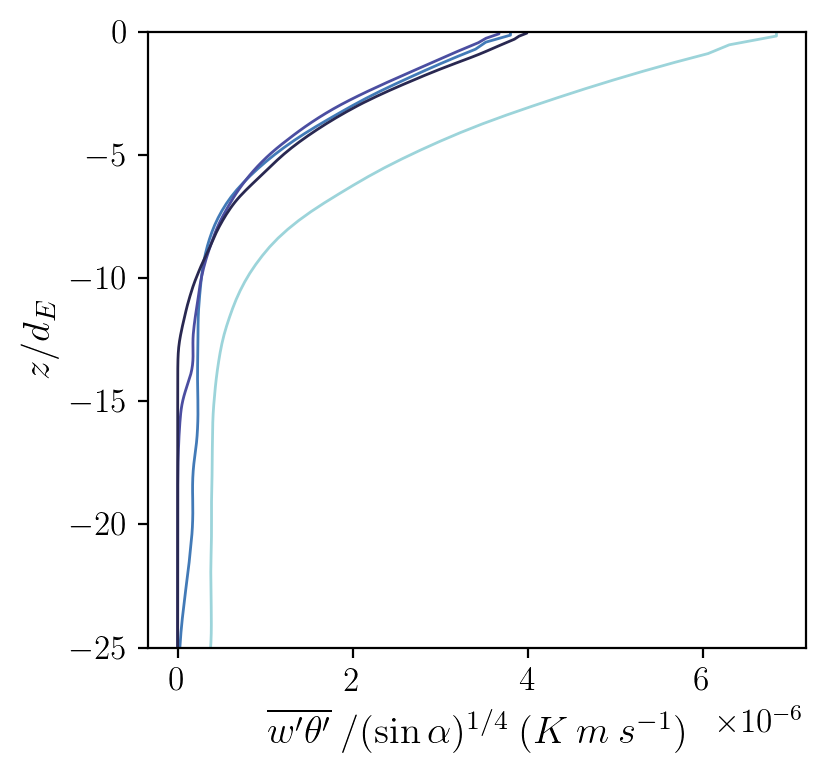
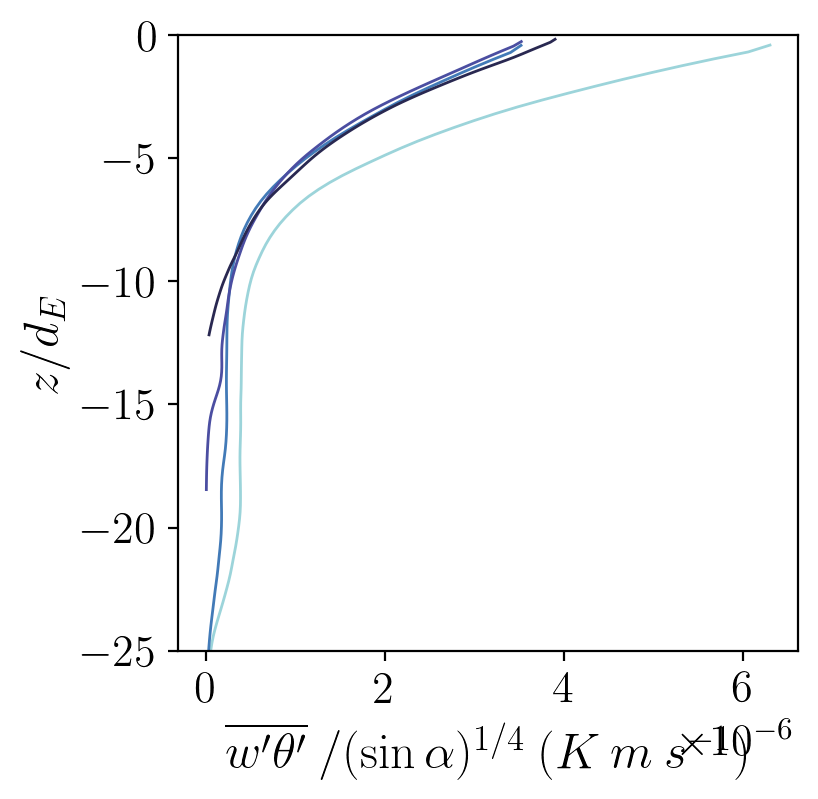
Resize flux figures

Changed region(s): [[0.0917, 0.031, 0.978, 0.9625], [0.0306, 0.3726, 0.0917, 0.4968], [0.5807, 0.1242, 0.6724, 0.1552]]

diff --git a/vis_scripts/flux_profile_fig.py b/vis_scripts/flux_profile_fig.py
@@ -18,31 +18,30 @@ sys.path.append('/Users/cbegeman/Software_files/my_python_code/')
 #             runlabel=runlabel,  
 #             teval = [tprofile,tprofile], 
 #             tav = tav_pr,
-#             figsize = figsize2, 
+#             figsize = figsize3, 
 #             legtitle=legtitle,
 #             zlim=[zmax,0], col=colorVal
 #            )
-palm.plot_pr(diri, run, ['momflux_z'],
+palm.plot_pr(diri, run, ['wpt'],
              runlabel=runlabel,  
              teval = [tprofile,tprofile], 
              tav = tav_pr, 
+             xscale_input = xscale_input, 
+             xscale_label = xscale_label, 
              zscale = 'Ekman', 
-             figsize = figsize2, 
-             legtitle=legtitle,
+             figsize = figsize3, 
              plot_legend=False,
-             zlim=[zmax,0], col=colorVal
+             zlim=[-25.,0.], 
+             col=colorVal,overwrite=True
             )
-#palm.plot_pr(diri, run, ['wpt','momflux_z'],
+#palm.plot_pr(diri, run, ['momflux_z'],
 #             runlabel=runlabel,  
 #             teval = [tprofile,tprofile], 
 #             tav = tav_pr, 
-#             xscale_input = xscale_input, 
-#             xscale_label = xscale_label, 
-#             zscale = 'Ekman', 
-#             figsize = figsize2, 
+#             figsize = figsize3, 
+#             legtitle=legtitle,
 #             plot_legend=False,
-#             #zlim=[-25.,0.], 
-#             col=colorVal
+#             zlim=[zmax,0], col=colorVal
 #            )
 #palm.plot_pr(diri, run, ['heatflux_z'],#'saltflux_z','momflux_u','momflux_v'],
 #             runlabel=runlabel,  
